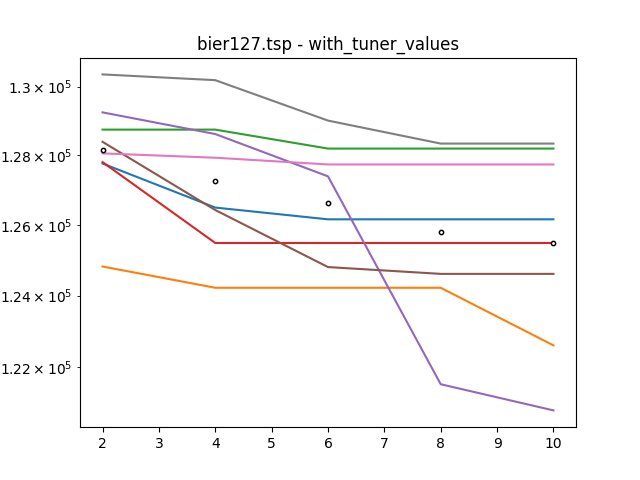
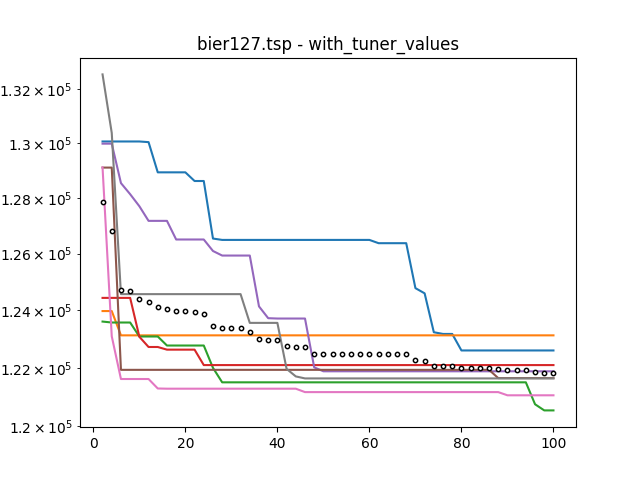
Add genetic algorithm template

diff --git a/jsons/maxvalues.py b/jsons/maxvalues.py
@@ -7,18 +7,35 @@ import pathlib
 
 
 def main():
-    for result_type in ["long0", "rand_tabu", "reverse", "swap"]:
-        df = pd.read_json("results-" + result_type + ".json", orient='records')
-        max_list_dict = dict()
-        for tsp_problem, tsp_list in df.items():
-            list_of_dictionaries = list(tsp_list)
-            max_list = list()
+    for tsp_problem in ["a280.tsp", "bier127.tsp", "pcb1173.tsp", "ch150.tsp", "vm1084.tsp", "u1060.tsp", "eil101.tsp",
+                        "eil51.tsp", "eil76.tsp", "fl417.tsp"]:
+        for result_type in ["random_long_term_length",
+                            "random_tabu_length",
+                            "long_term_length_0"]:  # "reverse",  "swap",  "with_tuner_values", "without_aspiration",
+            # , ]:
+            df = pd.read_json("results-" + result_type + ".json", orient='records')
+            name = '_vs_'.join(["random_long_term_length", "random_tabu_length", "long_term_length_0"])
+            list_of_dictionaries = list(df[tsp_problem])
+            dd = defaultdict(list)
+            avg_dict = dict()
             for d in list_of_dictionaries:
                 for k, v in d.items():
-                    if k == '100':
-                        max_list.append(v)
-            max_list_dict[tsp_problem] = max_list
-        #wilcoxon_test(max_list_dict)
+                    if k != '0':
+                        dd[k].append(v)
+            for k, v in dd.items():
+                avg_dict[int(k)] = int(np.floor(st.mean(v)))
+            keys = [int(i) for i in avg_dict.keys()]
+            keys = np.sort(keys)
+            values = [avg_dict[i] for i in keys]
+            plt.title(tsp_problem + "  " + name)
+            plt.plot(keys, values, label=result_type)
+        plt.legend()
+        plt.yscale('log')
+        path = pathlib.Path("plots/" + tsp_problem)
+        path.mkdir(parents=True, exist_ok=True)
+        # plt.show()
+        plt.savefig("plots/" + tsp_problem + "/" + name + ".png")
+        plt.clf()
 
 
 if __name__ == '__main__':

diff --git a/jsons/plots.py b/jsons/plots.py
@@ -36,6 +36,7 @@ def main():
             plt.title(tsp_problem + " - " + result_type)
             curr_dict = all_avg_dict[tsp_problem]
             keys = [int(i) for i in curr_dict.keys()]
+            keys = np.sort(keys)
             values = [curr_dict[i] for i in keys]
             plt.scatter(keys, values, c='black', s=10, zorder=10)
             plt.scatter(keys, values, c='white', s=1, zorder=10)
